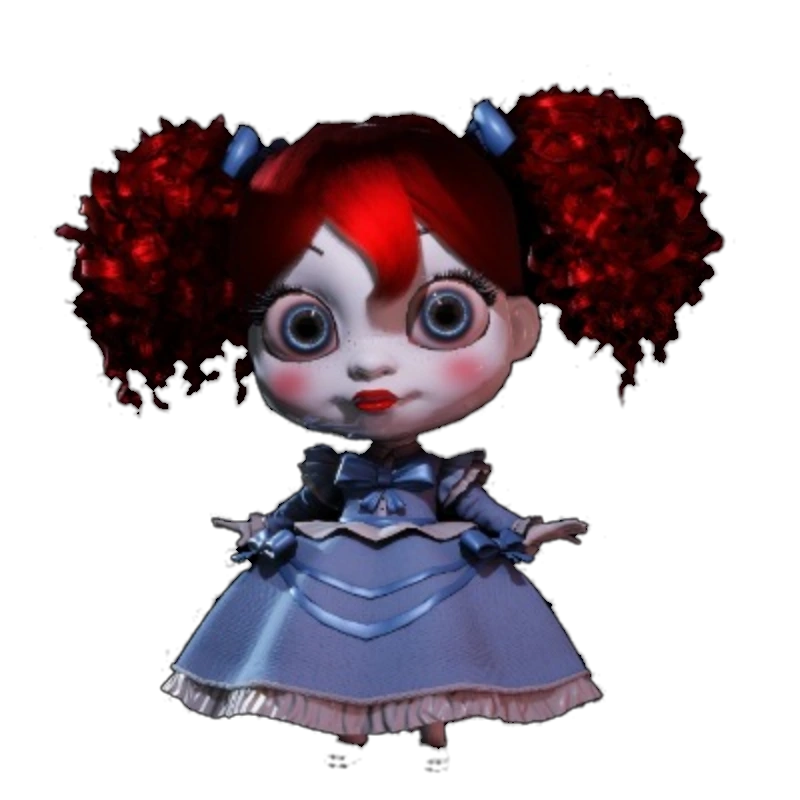
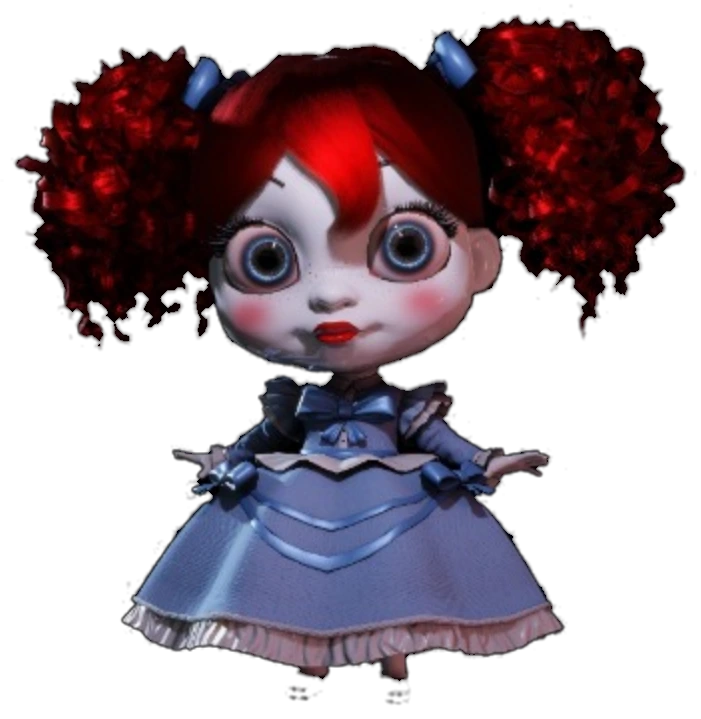
Maintenance page: phone and desktop layout rebuilt
Characters cropped to the visible figure so they appear much larger, grouped and overlapping on phones and spread out on desktop; logo fills the width with an animated RGB light strip under it; compact card; everything scales with the screen height so nothing is clipped from 360x700 phones to 1280x680 laptops.

diff --git a/public/maintenance.html b/public/maintenance.html
@@ -141,6 +141,37 @@
     60%, 78%  { transform: translateY(-30px) rotate(0deg); }
     80%, 100% { transform: translateY(-10px) rotate(-10deg); }
   }
+  /* ---------- final layout: one centred stack, built for phones first, then scaled up for desktop ---------- */
+  .page { height: 100dvh; min-height: 100svh; justify-content: center; gap: clamp(10px, 2.4svh, 26px); padding: 14px 14px calc(14px + env(safe-area-inset-bottom, 0px)); }
+  .head { display: flex; flex-direction: column; align-items: center; gap: clamp(6px, 1.2svh, 12px); width: 100%; }
+  .logo { font-size: clamp(38px, min(11.6vw, 11.5svh), 108px); max-width: 100%; white-space: nowrap; }
+  .logo-bar { width: min(62%, 520px); height: 4px; border-radius: 4px; background: linear-gradient(90deg, #ff2d2d, #ff8a00, #ffe14d, #7CFF4F, #1fe0a0, #22d3ee, #3b82f6, #8b5cf6, #e11dd4, #ff5fa2, #ff2d2d); background-size: 600px 100%; animation: barflow 2.6s linear infinite; box-shadow: 0 0 14px rgba(255,255,255,.55), 0 0 34px rgba(139,92,246,.7); }
+  @keyframes barflow { to { background-position: 600px 0; } }
+  .trio { --dh: min(37svh, 27vw); flex: 0 0 auto; width: 100%; max-width: 1100px; height: calc(var(--dh) + 46px); align-items: flex-end; justify-content: center; gap: 0; }
+  .pal, .pal.l, .pal.d, .pal.p { width: auto; height: auto; padding: 0; margin: 0 clamp(-30px, -2.4vw, -6px); --size: auto; }
+  .pal img { width: auto; height: var(--ph); max-width: none; display: block; }
+  .pal.l { --ph: calc(var(--dh) * .86); }
+  .pal.d { --ph: var(--dh); z-index: 2; }
+  .pal.p { --ph: calc(var(--dh) * .74); }
+  .trio::after { left: 8%; right: 8%; bottom: 2px; }
+  .card { width: min(580px, 100%); padding: clamp(14px, 2.6svh, 28px) clamp(16px, 4vw, 32px); border-radius: 20px; }
+  h1 { margin: 0 0 8px; font-size: clamp(22px, 5.6vw, 40px); }
+  .card p { font-size: clamp(13px, 3.5vw, 16.5px); line-height: 1.5; }
+  .status { margin-top: 12px; padding: 7px 13px; font-size: 12.5px; }
+  .care { margin-top: 12px; font-size: 11.5px; line-height: 1.45; opacity: .8; }
+  @media (min-width: 701px) {
+    .pal, .pal.l, .pal.d, .pal.p { margin: 0 clamp(6px, 1.8vw, 40px); }
+    .card { width: min(740px, 100%); }
+    .card p { font-size: clamp(14px, .6vw + 9px, 16.5px); max-width: none; }
+    .care { max-width: none; }
+  }
+  @media (max-width: 700px) {
+    .trio { --dh: min(36svh, 50vw); }
+    .pal, .pal.l, .pal.d, .pal.p { margin: 0 -9px; }
+  }
+  @media (max-height: 700px) { .care { display: none; } }
+  @media (max-height: 640px) { .trio { --dh: min(32svh, 26vw); } }
+
   @media (prefers-reduced-motion: reduce) { .logo { animation-duration: 40s; } }
 
   @media (prefers-reduced-motion: reduce) {
@@ -162,7 +193,7 @@
 </div>
 
 <main class="page">
-  <h2 class="logo" aria-label="character.mind">character.mind</h2>
+  <div class="head"><h2 class="logo" aria-label="character.mind">character.mind</h2><div class="logo-bar" aria-hidden="true"></div></div>
   <div class="trio" aria-hidden="true">
     <div class="pal l"><img src="/maintenance/lily.webp" alt=""></div>
     <div class="pal d"><img src="/maintenance/doey.webp" alt=""></div>
